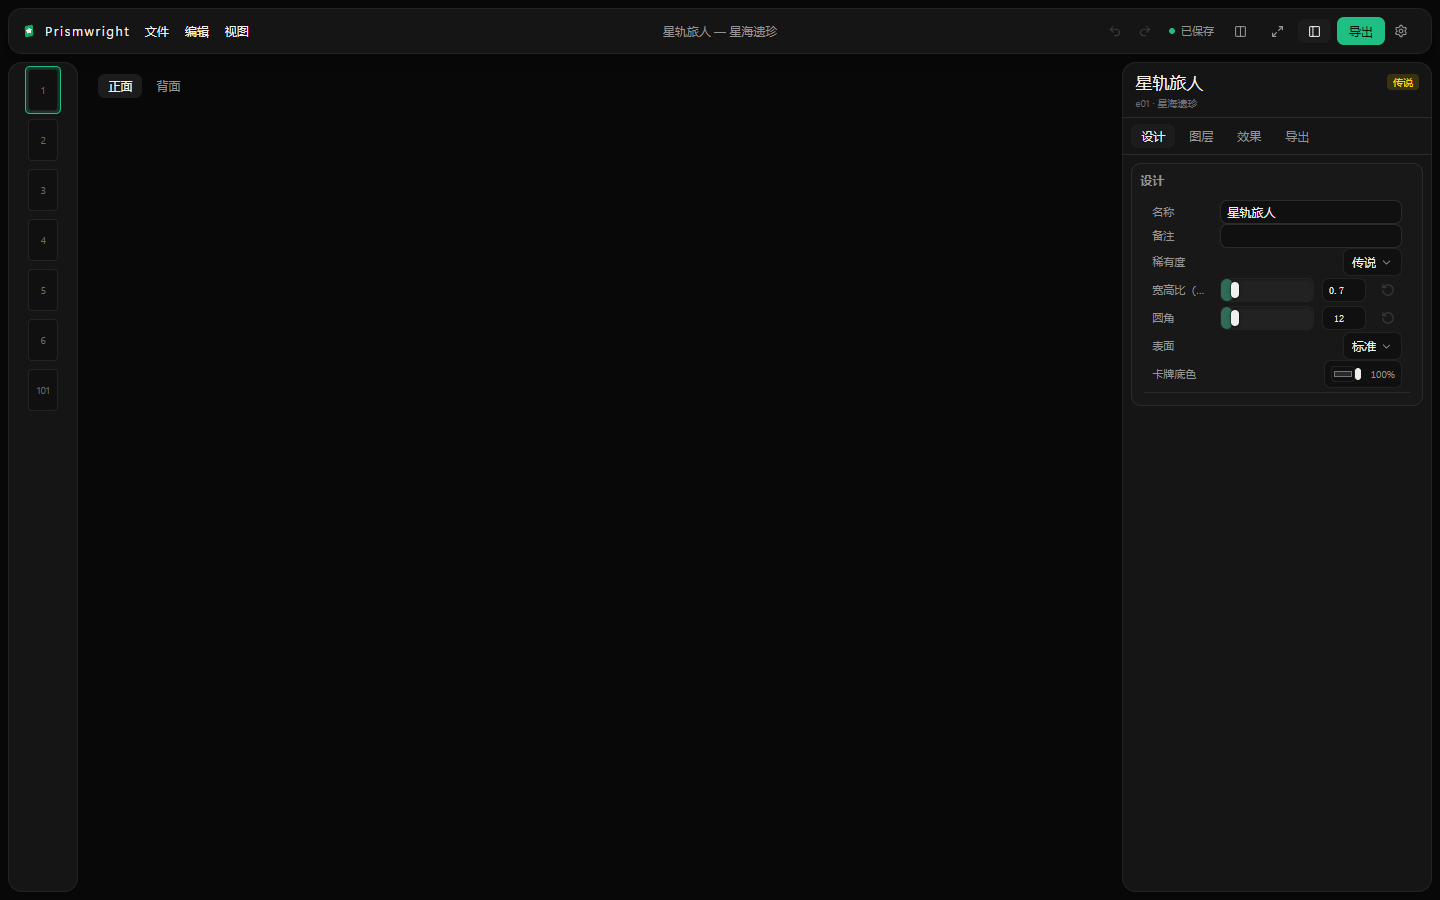
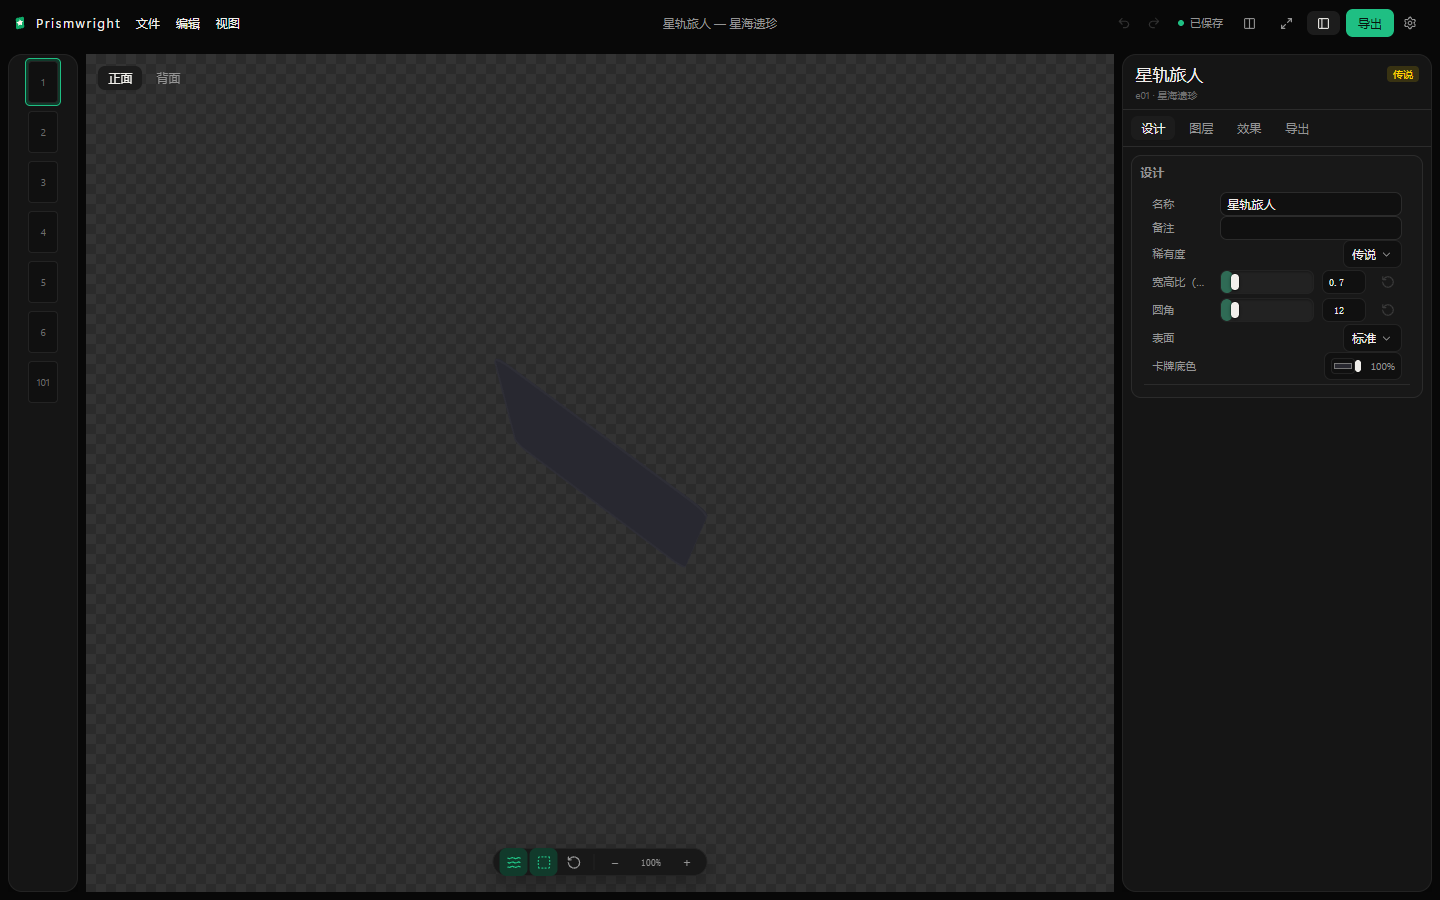
fix(ui): 顶栏贴住窗口边缘；修复舞台高度塌陷导致卡牌不可见
- 顶栏改为通栏透明（无圆角/描边/投影），8px 边距只留给其下的工作区
- PreviewPanel 根节点补 h-full：父级不是 flex 容器，原 flex-1 解析成内容高，
  绝对定位的画布因此为 0×0，卡牌完全不渲染
- 视觉验收记录与设计文档同步修订

diff --git a/apps/desktop/src/features/titlebar/TitleBar.tsx b/apps/desktop/src/features/titlebar/TitleBar.tsx
@@ -160,12 +160,12 @@ export function TitleBar({
     // 自己那份「剩余空间」里居中，两侧一宽一窄就整体偏移。
     // 列取 `items-stretch`（拉伸）而**不是**居中：列若收缩到内容高，列内那些 `h-full`
     // （窗口按钮）便统统解析成那个高度——悬停底色于是上下撑不满。纵向居中由各列自己负责。
+    //
+    // 整条与窗口上/左/右三边齐平：不铺背景、不留圆角与外边距，只保留内容中的 px-2。
     <div
       data-tauri-drag-region
       style={gap ? { paddingLeft: TRAFFIC_LIGHT_GAP } : undefined}
-      className={`grid h-topbar shrink-0 grid-cols-[minmax(min-content,1fr)_minmax(0,max-content)_minmax(min-content,1fr)] items-stretch ${
-        minimal ? "" : "overflow-hidden rounded-panel border border-line-soft bg-panel panel-shadow px-2"
-      }`}
+      className={`grid h-topbar shrink-0 grid-cols-[minmax(min-content,1fr)_minmax(0,max-content)_minmax(min-content,1fr)] items-stretch px-2`}
     >
       <div data-tauri-drag-region className="flex min-w-0 items-center gap-2 pl-1">
         {!minimal && (

diff --git a/apps/desktop/src/app/App.tsx b/apps/desktop/src/app/App.tsx
@@ -279,14 +279,12 @@ export default function App() {
 
   return (
     <TooltipProvider>
-      {/* 外层 p-2 的留白也是拖拽区：顶栏是浮层，窗口边缘那 8px 若不接管，贴边按下就拖不动窗。 */}
-      <div
-        data-tauri-drag-region
-        className="flex h-full flex-col gap-2 bg-app p-2 text-foreground"
-      >
+      {/* 顶栏直接贴在窗口上/左/右三边上（无外边距、无背景）；只有它下面的工作区留 8px 边距。 */}
+      <div data-tauri-drag-region className="flex h-full flex-col bg-app text-foreground">
         {usesHtmlTitleBar(platform) && (
           <TitleBar platform={platform} variant={startPage ? "minimal" : "full"} />
         )}
+        <div className="flex min-h-0 flex-1 flex-col gap-2 px-2 pb-2 pt-2">
         {settingsOpen ? (
           <SettingsView />
         ) : pack ? (
@@ -317,6 +315,7 @@ export default function App() {
         ) : (
           <StartScreen />
         )}
+        </div>
       </div>
       <NewPackDialog />
       <AlbumDialog />

diff --git a/apps/desktop/src/features/titlebar/__tests__/titleBar.test.ts b/apps/desktop/src/features/titlebar/__tests__/titleBar.test.ts
@@ -49,11 +49,12 @@ function dragTargets(html: string): string[] {
 }
 
 describe("TitleBar（Windows）", () => {
-  it("顶栏是 46 高的浮层面板：panel 圆角与细描边", () => {
+  it("顶栏与窗口上缘齐平：46 高、通栏、不铺容器背景", () => {
     const html = render("windows")
     expect(html).toContain("h-topbar")
-    expect(html).toContain("rounded-panel")
-    expect(html).toContain("border-line-soft")
+    // 曾经把顶栏做成与面板一样的浮层，实机观感是「在最顶端分离」，故不再有圆角/投影。
+    expect(html).not.toContain("rounded-panel")
+    expect(html).not.toContain("panel-shadow")
   })
 
   it("画出自绘菜单条：文件 / 编辑 / 视图", () => {

diff --git a/apps/desktop/src/features/preview/PreviewPanel.tsx b/apps/desktop/src/features/preview/PreviewPanel.tsx
@@ -613,7 +613,9 @@ export function PreviewPanel() {
 
   return (
     // 舞台直铺应用底色：不再套背景面板，工具栏与视图胶囊浮在画面上。
-    <div className="relative flex min-h-0 flex-1 flex-col">
+    // 父级（分栏中心面板）不是 flex 容器：这里必须自带 `h-full`，只写 `flex-1` 的话
+    // 高度会塌成内容高（画布是绝对定位，内容高为 0），整张卡就看不见了。
+    <div className="relative flex h-full min-h-0 flex-col">
       <div className="absolute left-3 top-3 z-20 flex items-center gap-2">
         {!editingDefaultBack && (
           <Segmented

diff --git a/docs/superpowers/notes/2026-11-28-ui-visual-qa.md b/docs/superpowers/notes/2026-11-28-ui-visual-qa.md
@@ -11,35 +11,38 @@
 ```
 pnpm --filter @prismwright/desktop dev
 msedge --headless=new --enable-unsafe-swiftshader --window-size=1440,900 \
-  --screenshot=... "http://localhost:1420/harness.html?layout=focus&tab=layers"
+  --screenshot=... "http://localhost:1420/harness.html?layout=focus"
 ```
 
-`?layout=studio|focus|compact` 切布局，`?tab=design|layers|effects|export` 切页签。harness 用完即删，不提交。
+`?layout=studio|focus|compact` 切布局。harness 用完即删，不提交。
 
 截图存于 `docs/superpowers/notes/ui-qa-2026-11-28/`。
 
 ## 已核对
 
-- **工作室**：顶栏 46 高浮层、左右栏圆角浮层与 8px 间隔、舞台直铺底色；左栏搜索/分组/卡片行/新建按钮；检查器头部 + 页签 + 分区卡。
+- **顶栏**：与窗口上/左/右三边齐平、透明无容器背景；内容仍是三段栅格（品牌+菜单 / 标题 / 动作组）。
+- **工作室**：左右栏圆角浮层与 8px 间隔、舞台直铺底色；左栏搜索/分组/卡片行/新建按钮；检查器头部 + 页签 + 分区卡。
 - **专注**：左栏收起后舞台铺满，正/背面分段控件与视图胶囊仍可用。
 - **紧凑**：左栏 5% 缩略图条，选中项绿环；`minSize` 允许压到 4%。
 - **图层页**：添加层 2×2 按钮组、图层行 4px 内缩 + 圆角 + 深绿选中底、属性区字段行对齐。
 - **设计页**：滑杆轨道 24 高、已滑过部分 `#2f6b55` 实心、手柄 8×16；数字框 44×24 与轨道同圆角；取色像素级核对（填充 `#2F6B55`、未填充 `#222222`、手柄 `#F1EFEB`）。
-- **菜单/对话框**：菜单项 24 行高、圆角卡；确认框改用 Button。
+- **卡面**：修掉舞台高度塌陷后，WebGL 画布与卡面网格在合成系列里可见（软件渲染下观感不作为色彩依据）。
 
 ## 发现并已修
 
-1. 图层树选中行原先通栏铺色、无圆角 → 行加 `mx-1`、`rounded-control`、`h-row`。
-2. 效果页分区卡标题沿用了「图层」，与页签重名 → 改为当前图层名。
-3. 设置页两处 `max-w-[1100px]`、`text-[15px]` 等任意值 → 收入刻度（见守卫测试）。
+1. **卡牌不可见（阻断级）**：`PreviewPanel` 的舞台根节点只有 `flex-1`，而父级（分栏中心面板）不是 flex 容器，高度解析为内容高；画布是绝对定位、内容高为 0，于是整块画布尺寸为 0，卡片完全不渲染。改为 `h-full` 后恢复。
+2. 顶栏与窗口上/左/右有 8px 分离且带容器背景 → 顶栏改为齐平透明，边距只留给其下的工作区。
+3. 图层树选中行原先通栏铺色、无圆角 → 行加 `mx-1`、`rounded-control`、`h-row`。
+4. 效果页分区卡标题沿用了「图层」，与页签重名 → 改为当前图层名。
+5. 设置页两处 `max-w-[1100px]`、`text-[15px]` 等任意值 → 收入刻度（见守卫测试）。
 
 ## 未覆盖 / 待真机确认
 
-- **画布内容**：无头环境拿不到可用的 WebGL 上下文，卡面本身没有渲染出来（截图里舞台为空白）。卡片、效果、光照观感需在 `pnpm dev` 的 Tauri 窗口里确认。
+- **画布观感**：无头环境用的是软件 GL，卡面在截图里呈现为一条斜向暗块（合成卡没有图片层，底色又接近棋盘格）。卡面、效果、光照的实际观感需在 `pnpm dev` 的 Tauri 窗口里确认。
 - **缩略图**：合成系列没有 `.previews`，卡片行显示编号回落块；真实系列的缩略图路径需在真机确认。
 - **1024×768**：未单独截图。顶栏右侧动作组在窄窗下可能挤（撤销/重做、保存、布局、导出、设置、窗口按钮），需真机看一眼是否换行或被裁。
 - **设计页标签**：`宽高比（系列）` 在 60px 标签列下显示为「宽高比 (…」，属既定截断策略（悬停有 title）；若影响易读性，可把该面板标签列调到 72px。
 
 ## 结论
 
-布局、控件刻度与三种模式与原型一致，测试 795 项全绿；画布内观感待真机。
+布局、控件刻度与三种模式与原型一致，测试全绿；卡牌不可见的根因已定位并修复，画布内观感待真机复核。

diff --git a/docs/superpowers/specs/2026-11-28-editor-ui-control-system-design.md b/docs/superpowers/specs/2026-11-28-editor-ui-control-system-design.md
@@ -163,9 +163,9 @@
 └───────────┴──────────────────────────────┴───────────────┘
 ```
 
-- 窗口外边距 8，面板之间 8；面板是浮在 `--color-surface-app` 上的圆角块。
+- **顶栏与窗口上/左/右三边齐平**：不铺容器背景、不留圆角与外边距（2026-11-28 修订：原本打算与面板一样浮在 8px 留白上，实机观感「在最顶端分离」，改回通栏透明）。
+- 工作区（顶栏以下）外边距 8、面板之间 8；面板是浮在 `--color-surface-app` 上的圆角块。
 - 舞台无背景容器、无状态栏、无底部胶片条。保存状态移到顶栏；保存失败时顶栏红点可点开错误详情。
-- 顶栏与窗口之间那圈 8px 留白也带 `data-tauri-drag-region`，保证贴边也能拖窗。
 
 ### 7.2 布局模式
 
